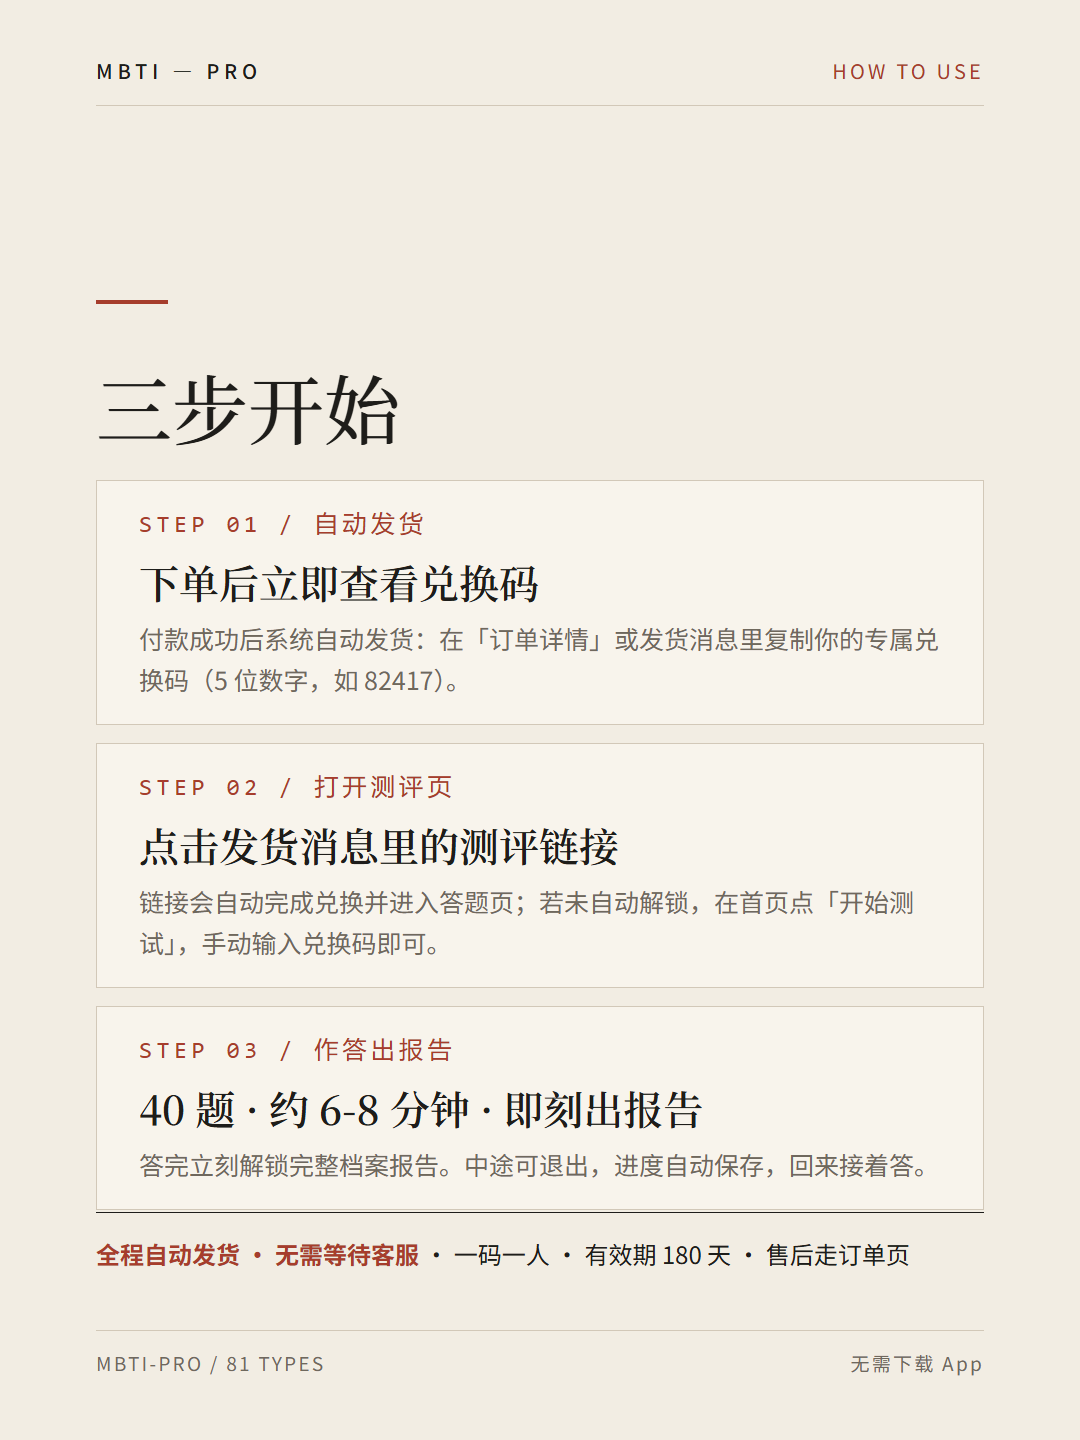
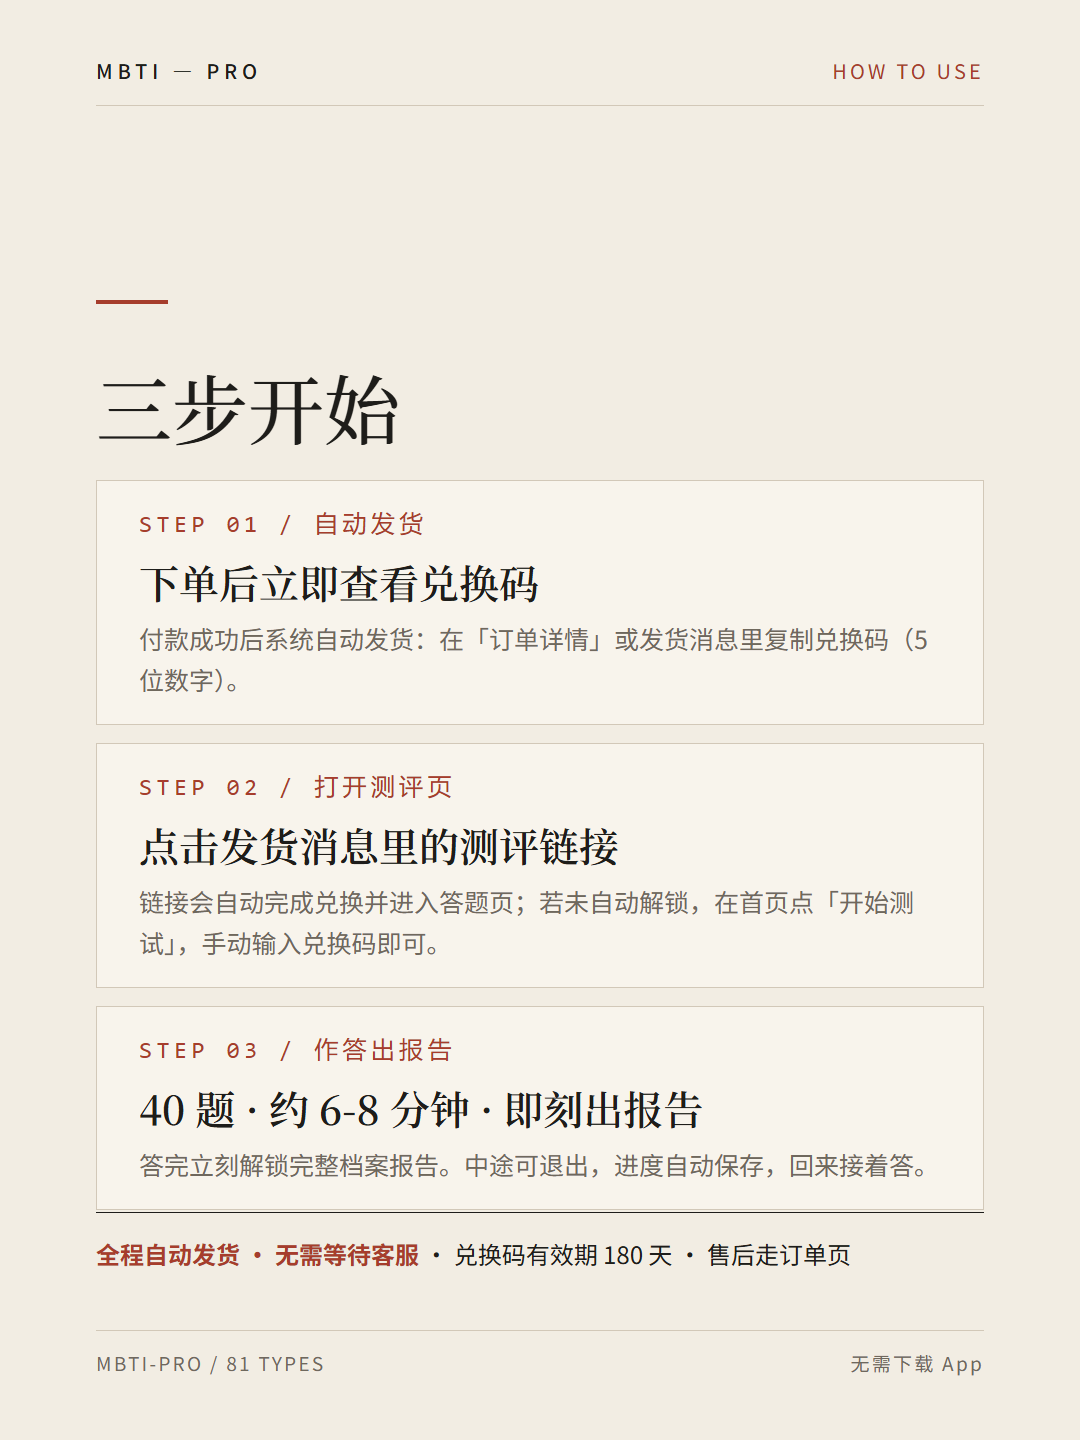
docs(shop): 上架素材终版——统一码口径修正 + 直接复制区 + DSH 交接 v2
- 商品图-3/-5 与详情去掉「一码一人/专属/3 台设备」，改为统一码口径（全店通用、180 天、勿公开分享）
- 上架文档顶部新增「零、直接复制区」：商品名称（20 字内）+ 商品描述 + 发货说明（含【兑换码】占位）三块可整段粘贴
- 服务器交接 DSH v2：任务收敛为生成统一码 + 粘贴发货说明 + 上架验证；附监控/备份/红线/排错表

diff --git a/docs/xhs-shop/shop-cards.html b/docs/xhs-shop/shop-cards.html
@@ -146,7 +146,7 @@ body { background:#DDD8CE; padding:40px 0; }
     <div class="step">
       <p class="no">STEP 01 / 自动发货</p>
       <h3>下单后立即查看兑换码</h3>
-      <p>付款成功后系统自动发货：在「订单详情」或发货消息里复制你的专属兑换码（5 位数字，如 82417）。</p>
+      <p>付款成功后系统自动发货：在「订单详情」或发货消息里复制兑换码（5 位数字）。</p>
     </div>
     <div class="step">
       <p class="no">STEP 02 / 打开测评页</p>
@@ -159,7 +159,7 @@ body { background:#DDD8CE; padding:40px 0; }
       <p>答完立刻解锁完整档案报告。中途可退出，进度自动保存，回来接着答。</p>
     </div>
   </div>
-  <p class="auto"><b>全程自动发货 · 无需等待客服</b> · 一码一人 · 有效期 180 天 · 售后走订单页</p>
+  <p class="auto"><b>全程自动发货 · 无需等待客服</b> · 兑换码有效期 180 天 · 售后走订单页</p>
   <div class="footer"><span>MBTI-PRO / 81 TYPES</span><span>无需下载 App</span></div>
 </section>
 
@@ -202,7 +202,7 @@ body { background:#DDD8CE; padding:40px 0; }
   </div>
   <div class="blk" style="top:930px;">
     <h3><i>03</i>使用规则</h3>
-    <p>一码一人，有效期 180 天，最多 3 台设备。答题进度保存在你的浏览器里，清除缓存后重新输入同一兑换码即可继续。</p>
+    <p>兑换码全店通用，有效期 180 天。答题进度保存在你的浏览器里，清除缓存后重新输入兑换码即可继续；请勿公开分享兑换码。</p>
   </div>
 
   <div class="warn">

diff --git a/docs/MBTI-PRO-服务器交接-DSH-2026-11-12.md b/docs/MBTI-PRO-服务器交接-DSH-2026-11-12.md
@@ -1,52 +1,67 @@
-# 服务器操作交接（移交 DSH）—— 兑换码池 + 上架收尾
+# 服务器操作交接（DSH 专版 · 终版 v2）
 
-> 交接时间：2026-11-12 23:50 ｜ 背景：网站已上线（https://mbti-pro.com 健康检查 200），商品文案与 5 张上架图已备好（`docs/MBTI-PRO-小红书商品上架-2026-11-12.md`），**剩余的服务器侧操作就是"生成兑换码码池"这一件**，外加店铺后台配置与验证。
-> 服务器：腾讯云轻量香港 `43.132.217.70`（root，密钥登录），项目根 `/opt/MBTI-PRO`，后端 systemd 服务名 `mbti-pro`，数据库 SQLite `/opt/MBTI-PRO/server/prisma/dev.db`。
+> 交接时间：2026-11-13 00:10 ｜ 状态：网站已上线（https://mbti-pro.com 健康检查 200）｜ 商品文案/上架图/发货说明已全部定稿
+> **你只剩两件事：①在服务器生成全店统一兑换码；②把码填进发货说明并完成店铺上架。** 全程约 15 分钟。
 
 ---
 
-## 1. 生成全店统一兑换码（必做，商品上架的"货"）
+## 0. 背景速读（30 秒）
 
-**实测：小红书个人店「自动发货」的发货说明是固定文本（≤500 字），不支持按订单填变量 → 采用统一码模式**（对标商家同做法），服务端已配护栏：单码 3000 次额度、单码单日成功兑换 ≤500 次防刷（`DAILY_REDEEM_CAP`）、180 天有效期。
+- 商品：小红书个人店 0.99 元电子测评（40 题 → 81 型人格档案报告），`{{code}}` 变量发货**不可用**（实测发货说明为固定文本 ≤500 字）→ 采用**全店统一码**模式。
+- 统一码服务端护栏已内置：`maxRedemptions=3000` 次额度、**单码单日成功兑换 ≤500 次**（`DAILY_REDEEM_CAP`，防公开分享后脚本刷爆）、180 天有效期、redeem 同 IP 10 分钟 30 次限速。
+- 商品名称/详情/上架图已定稿：`docs/MBTI-PRO-小红书商品上架-2026-11-12.md` 的「零、直接复制区」（发货说明里的码是占位符，等你生成后替换）。
 
-一条命令生成（写进线上 SQLite）：
+## 1. 任务一：生成全店统一兑换码
 
 ```bash
 ssh root@43.132.217.70 "cd /opt/MBTI-PRO/server && npx tsx scripts/generate-access-codes.ts --count 1 --max-redemptions 3000 --days 180 --batch xhs-unified"
 ```
 
-- 输出示例里会打印实际码（5 位数字）；`cat /opt/MBTI-PRO/server/access-codes/xhs-unified-*.csv` 可再查看。
-- **把实际码替换**进发货说明模板（`docs/access-code-fulfillment.md` §2.3，模板里示例码是 82417），整段 ≤500 字直接粘贴到商品「自动发货 → 发货说明」。
-- 监控兑换量：`select redemptions from AccessCode where code='实际码';` 接近 3000 就换新码（生成新的 → 编辑商品发货说明 → disable 旧码）。
+- 输出末尾 `示例: XXXXX` 就是**实际统一码**（5 位数字，永不 0 开头）；码已写入服务器 SQLite（`AccessCode` 表），CSV 同时落在 `/opt/MBTI-PRO/server/access-codes/xhs-unified-*.csv`。
+- 查看确认：`ssh root@43.132.217.70 "cat /opt/MBTI-PRO/server/access-codes/xhs-unified-*.csv"`
+- **把实际码发到对话里**：①用户粘贴进发货说明；②同步到 `docs/MBTI-PRO-小红书商品上架-2026-11-12.md` 零·③ 与 `docs/access-code-fulfillment.md` §2.3（把 82417 示例替换掉）。
 
-## 2. 小红书店铺自动发货配置（网页操作，非服务器）
+> 参数说明：`--count 1` 只要一个码；`--max-redemptions 3000` 全店兑换额度；`--days 180` 有效期。如需调整：`--digits 4|5|6`、`--style alnum`（旧长码格式）。
 
-1. 店铺后台 → 商品 → 自动发货设置，把上面导出的码逐个/批量粘贴进码池；
-2. 发货消息模板直接抄 `docs/access-code-fulfillment.md` §2.3（`{{code}}` 变量由平台按订单填入），模板里含测评链接 `https://mbti-pro.com/?code={{code}}`——**链接只放发货字段（平台允许），不要放商品图/详情/笔记**；
-3. 商品标题/卖点/详情/上架图直接用 `docs/MBTI-PRO-小红书商品上架-2026-11-12.md`，图在 `docs/xhs-shop/商品图-1~5.png`。
+## 2. 任务二：发货说明 + 商品上架（网页操作）
 
-## 3. 上架后验证（10 分钟，按序）
+1. 打开发货说明模板：`docs/MBTI-PRO-小红书商品上架-2026-11-12.md` →「零、③ 自动发货 → 发货说明」，把 `【兑换码】`/`82417` 替换为任务一的实际码，整段（约 300 字）粘贴到商品「自动发货 → 发货说明」（那个 0/500 输入框），点确定。
+2. 商品名称/详情/5 张上架图：按同文档「零、①②」与 `docs/xhs-shop/商品图-1~5.png` 填写上传（标题上限 20 字，已按此拟好）。
+3. 上架前过一遍同文档「六、合规自查」（已预检 ✓，复核即可）。
 
-1. 自己真实下单 1 笔 → 确认自动发货消息到达、`?code=` 链接**一键进入测试**、答完 40 题报告完整解锁；
-2. 再下 1 单 → 订单页「申请售后」走一遍退款，确认原路退回到账；
-3. 换一台手机在小红书 App 内置浏览器打开链接：3 秒内可交互、字体正常（已全本地化，无 googleapis 请求）；
-4. 复核商品描述与图上的码示例是「5 位数字，如 82417」（已同步）。
+## 3. 任务三：上架后验证（10 分钟，按序）
 
-## 4. 顺手建议（可选，10 分钟）
+1. 用户/你真实下单 1 笔 → 自动发货消息到达 → 点 `https://mbti-pro.com/?code=实际码` → 自动兑换进入测试 → 答 40 题出报告 → 分享海报可保存；
+2. 同一订单走「申请售后」退款 → 原路到账确认；
+3. 换手机在小红书 App 内置浏览器打开链接：3 秒内可交互、字体正常（无 googleapis 请求）；
+4. 换个浏览器输入同一码再测一次 → 应正常（统一码允许多人多设备使用）。
 
-- **SQLite 备份**：`ssh root@43.132.217.70 "echo '0 4 * * * sqlite3 /opt/MBTI-PRO/server/prisma/dev.db \".backup /opt/MBTI-PRO/backups/dev-\$(date +\%F).db\"' | crontab -"` 之类的每日备份（目录先 `mkdir -p`）；有真实订单后数据库就是钱。
-- **日志检查**：`journalctl -u mbti-pro -n 50` 看一眼启动日志与 5xx。
-- **兑换监控**：有订单后不定期跑 `ssh root@43.132.217.70 "cd /opt/MBTI-PRO/server && npx tsx -e \"import{PrismaClient}from'@prisma/client';const p=new PrismaClient();p.accessCode.count({where:{redemptions:{gt:0}}}).then(c=>{console.log('已兑换码数:',c);return p.\\\$disconnect()})\""`（或直接查库）。
+## 4. 监控与运维（长期，每天 1 分钟）
 
-## 5. 本轮已完成的关联改动（无需重复做）
+```bash
+# 统一码已用次数 / 剩余额度（把'实际码'换掉）
+ssh root@43.132.217.70 "cd /opt/MBTI-PRO/server && npx tsx -e \"import{PrismaClient}from'@prisma/client';const p=new PrismaClient();p.accessCode.findUnique({where:{code:'实际码'}}).then(c=>{console.log(c.redemptions,'/',c.maxRedemptions);return p.\\\$disconnect()})\""
+```
 
-- 客服邮箱已改为 `mbti_pro@163.com`（`client/src/config/site.ts`），已构建进 LegalView 并随本次 push 部署；
-- 兑换码生成脚本改 5 位纯数字 + 库内查重 + 防前导零，已 push 部署（316f5b29 及后续）；
-- 商品图第 1 张已按用户要求品牌大字化（MBTI-PRO 第一视觉）。
+- `redemptions` 接近 3000 → 生成新码（同命令换 `--batch xhs-unified-2`）→ 编辑商品发货说明换码 → `disabled` 旧码；
+- `redemptions` 单日暴涨异常（远超销量）→ 说明码被外传：禁用旧码 + 换码，并在发货说明更新；
+- **SQLite 每日备份**（建议今天就配）：`mkdir -p /opt/MBTI-PRO/backups` 后加 cron：
+  `0 4 * * * sqlite3 /opt/MBTI-PRO/server/prisma/dev.db ".backup /opt/MBTI-PRO/backups/dev-$(date +\%F).db"`
+- 服务日志：`journalctl -u mbti-pro -n 100`；重启：`systemctl restart mbti-pro`。
 
-## 6. 遇到问题查哪里
+## 5. 红线（不要做）
 
-- 运维交接：`docs/MBTI-PRO-上线完成与运维交接-2026-11-12.md`（DSH 自己写的）
-- 项目记忆/踩坑：`.workbuddy/memory/2026-11-12.md`
-- 兑换/发货口径：`docs/access-code-fulfillment.md`；退款口径：站内 `/refund` 页（LegalView.vue）
-- 兑换接口限速：同 IP 10 分钟 30 次（`server/src/routes/access.ts`），5 位数字码不可被穷举
+- 整批/统一码**不要**发到笔记、评论、公开群、网盘分享页（`server/access-codes/` 已 gitignore）；
+- 发货说明里的测评链接**只放这个字段**——商品图、商品详情、笔记、评论区一律不放链接/二维码；
+- 不要在售后中索要用户的测评结果、身份证或站外联系方式（口径见站内 `/refund`、`/contact`）；
+- 商品标题/详情不加极限词与医疗词（已预检，改动时保持）。
+
+## 6. 出问题查哪里
+
+| 症状 | 查 |
+|---|---|
+| 用户说"兑换码无效" | 查码是否存在 / `disabled` / `redemptions` 是否已达 3000（服务器上进 server 目录用 Prisma 查 `AccessCode`） |
+| 用户说"今日上限" | 当日成功兑换 ≥500 次触发 `DAILY_REDEEM_CAP`（429），次日 0 点自动恢复；若正常销量触顶说明生意好，调大 `DAILY_REDEEM_CAP`（`server/src/routes/access.ts`）后 push |
+| 网站打不开 | `systemctl status mbti-pro`、`journalctl -u mbti-pro -n 100`、`curl -I http://127.0.0.1:3001/api/health` |
+| 部署失败 | GitHub Actions 运行日志（push master 自动部署，DEPLOY_* Secrets） |
+| 其他 | `.workbuddy/memory/2026-11-12.md` 当日日志 + `docs/MBTI-PRO-上线完成与运维交接-2026-11-12.md` |

diff --git a/docs/MBTI-PRO-小红书商品上架-2026-11-12.md b/docs/MBTI-PRO-小红书商品上架-2026-11-12.md
@@ -1,5 +1,89 @@
 # 小红书商品上架全套素材（0.99 元 · MBTI-PRO 81 型人格测评）
 
+> **终版交付（2026-11-13 00:05）：下面"零、直接复制区"三块就是全部要粘贴的内容。**
+> 发货说明里的兑换码 `【由 DSH 生成后替换】`——真实码由 DSH 在服务器生成（见 `docs/MBTI-PRO-服务器交接-DSH-2026-11-12.md`）。
+
+---
+
+## 零、直接复制区（终版）
+
+### ① 商品名称（上限 20 字，主推第一个）
+
+```
+MBTI测试81型人格电子报告完整版
+```
+
+备选：`81型人格测评电子报告 四维深度解析` ／ `MBTI进阶人格测试 81型坐标完整版`
+
+### ② 商品内容描述（整段粘贴）
+
+```text
+【这是一份什么样的人格测评】
+
+市面上的 MBTI 测试把你塞进 16 个格子里的一个。
+MBTI-PRO 用 3×3×3×3 的坐标体系，把"中间状态"也当作答案——
+81 种人格位置，总有一个比"非此即彼"更像你。
+
+【你将获得】
+
+· 40 道情境题：每题描述一个真实场景，约 6-8 分钟，可中断、进度自动保存
+· 81 型人格坐标：主类型 + 相邻候选型 + 四个维度的连续得分
+· 四维深度解析：用你这一型的代表人物（曾国藩、莎士比亚、奥黛丽·赫本……）的
+  生平、关键抉择与经验教训，给出四条人生建议
+· 纸质档案风排版 + 可保存的 3:4 分享海报
+· 一次兑换，全部内容解锁，无二次付费
+
+【怎么使用】
+
+① 下单后系统自动发货，在订单详情/发货消息里复制兑换码（5 位数字）
+② 点击发货消息里的测评链接，自动兑换进入答题页
+③ 答完 40 题即刻查看完整报告，海报可长按保存
+
+兑换码有效期 180 天。答题进度保存在你的浏览器里，
+换设备重新输入兑换码即可继续；请勿公开分享兑换码。
+
+【关于准确性】
+
+本测评基于荣格类型学与四维坐标框架，帮你更清晰地看见自己的偏好模式。
+它是一面镜子，不是一把尺子——结果仅供自我探索与娱乐参考，
+不构成心理诊断、医疗建议或招聘依据，请勿用于评判他人。
+
+【售后说明】
+
+· 兑换码未使用未过期且未开始测评、自动发货失败、重复支付等情形，可在订单页
+  「申请售后」，24 小时内响应，核实后按平台规则原路退款
+· 兑换后"结果不喜欢/觉得不准"属主观感受，不属于未交付
+· 遇到链接打不开、兑换码无效，不要重复付费，直接申请售后补发
+
+【温馨提示】
+
+付款前请确认：这是一份电子版人格自测内容，不含实物、不含一对一人工咨询服务。
+```
+
+### ③ 自动发货 → 发货说明（整段粘贴，≤500 字）
+
+> ⚠ 粘贴前：把 `【兑换码】` 替换为 DSH 生成的真实 5 位数字码。
+
+```text
+【MBTI-PRO 人格测评 · 自动发货】
+
+兑换码：【兑换码】（5 位数字，全店通用）
+
+使用方法：
+① 打开发货消息里的测评链接，输入上方兑换码
+② 自动解锁 40 道情境题，约 6-8 分钟答完
+③ 立即查看完整 81 型人格档案报告，海报可长按保存
+
+温馨提示：
+· 请勿将兑换码发布到公开网络，异常用量会导致码被更换
+· 答题进度保存在你的浏览器中，中途退出可继续
+· 链接打不开或兑换异常，请在订单页「申请售后」，24 小时内响应
+· 本测评仅供自我探索参考，不构成心理诊断或医疗建议
+```
+
+---
+
+
 > 生成：2026-11-12 ｜ 配套图片：`docs/xhs-shop/商品图-1.png ~ 商品图-5.png`（1080×1440，3:4，纸张档案风）
 > 商品图源文件：`docs/xhs-shop/shop-cards.html`（改文案后 `node scripts/xhs-shop/render-shop.mjs` 重渲）
 > 线上前置：网站已上线（https://mbti-pro.com 健康检查 200），自动发货模板见 `docs/access-code-fulfillment.md`
@@ -46,12 +130,12 @@ MBTI-PRO 用 3×3×3×3 的坐标体系，把"中间状态"也当作答案——
 
 【怎么使用】
 
-① 下单后系统自动发货，在订单详情/发货消息里复制专属兑换码（5 位数字，如 82417）
+① 下单后系统自动发货，在订单详情/发货消息里复制兑换码（5 位数字）
 ② 点击发货消息里的测评链接，自动兑换进入答题页
 ③ 答完 40 题即刻查看完整报告，海报可长按保存
 
-一码一人，有效期 180 天，最多 3 台设备使用。
-答题进度保存在你的浏览器里，换设备重新输入同一兑换码即可继续。
+兑换码有效期 180 天。答题进度保存在你的浏览器里，
+换设备重新输入兑换码即可继续；请勿公开分享兑换码。
 
 【关于准确性】
 
